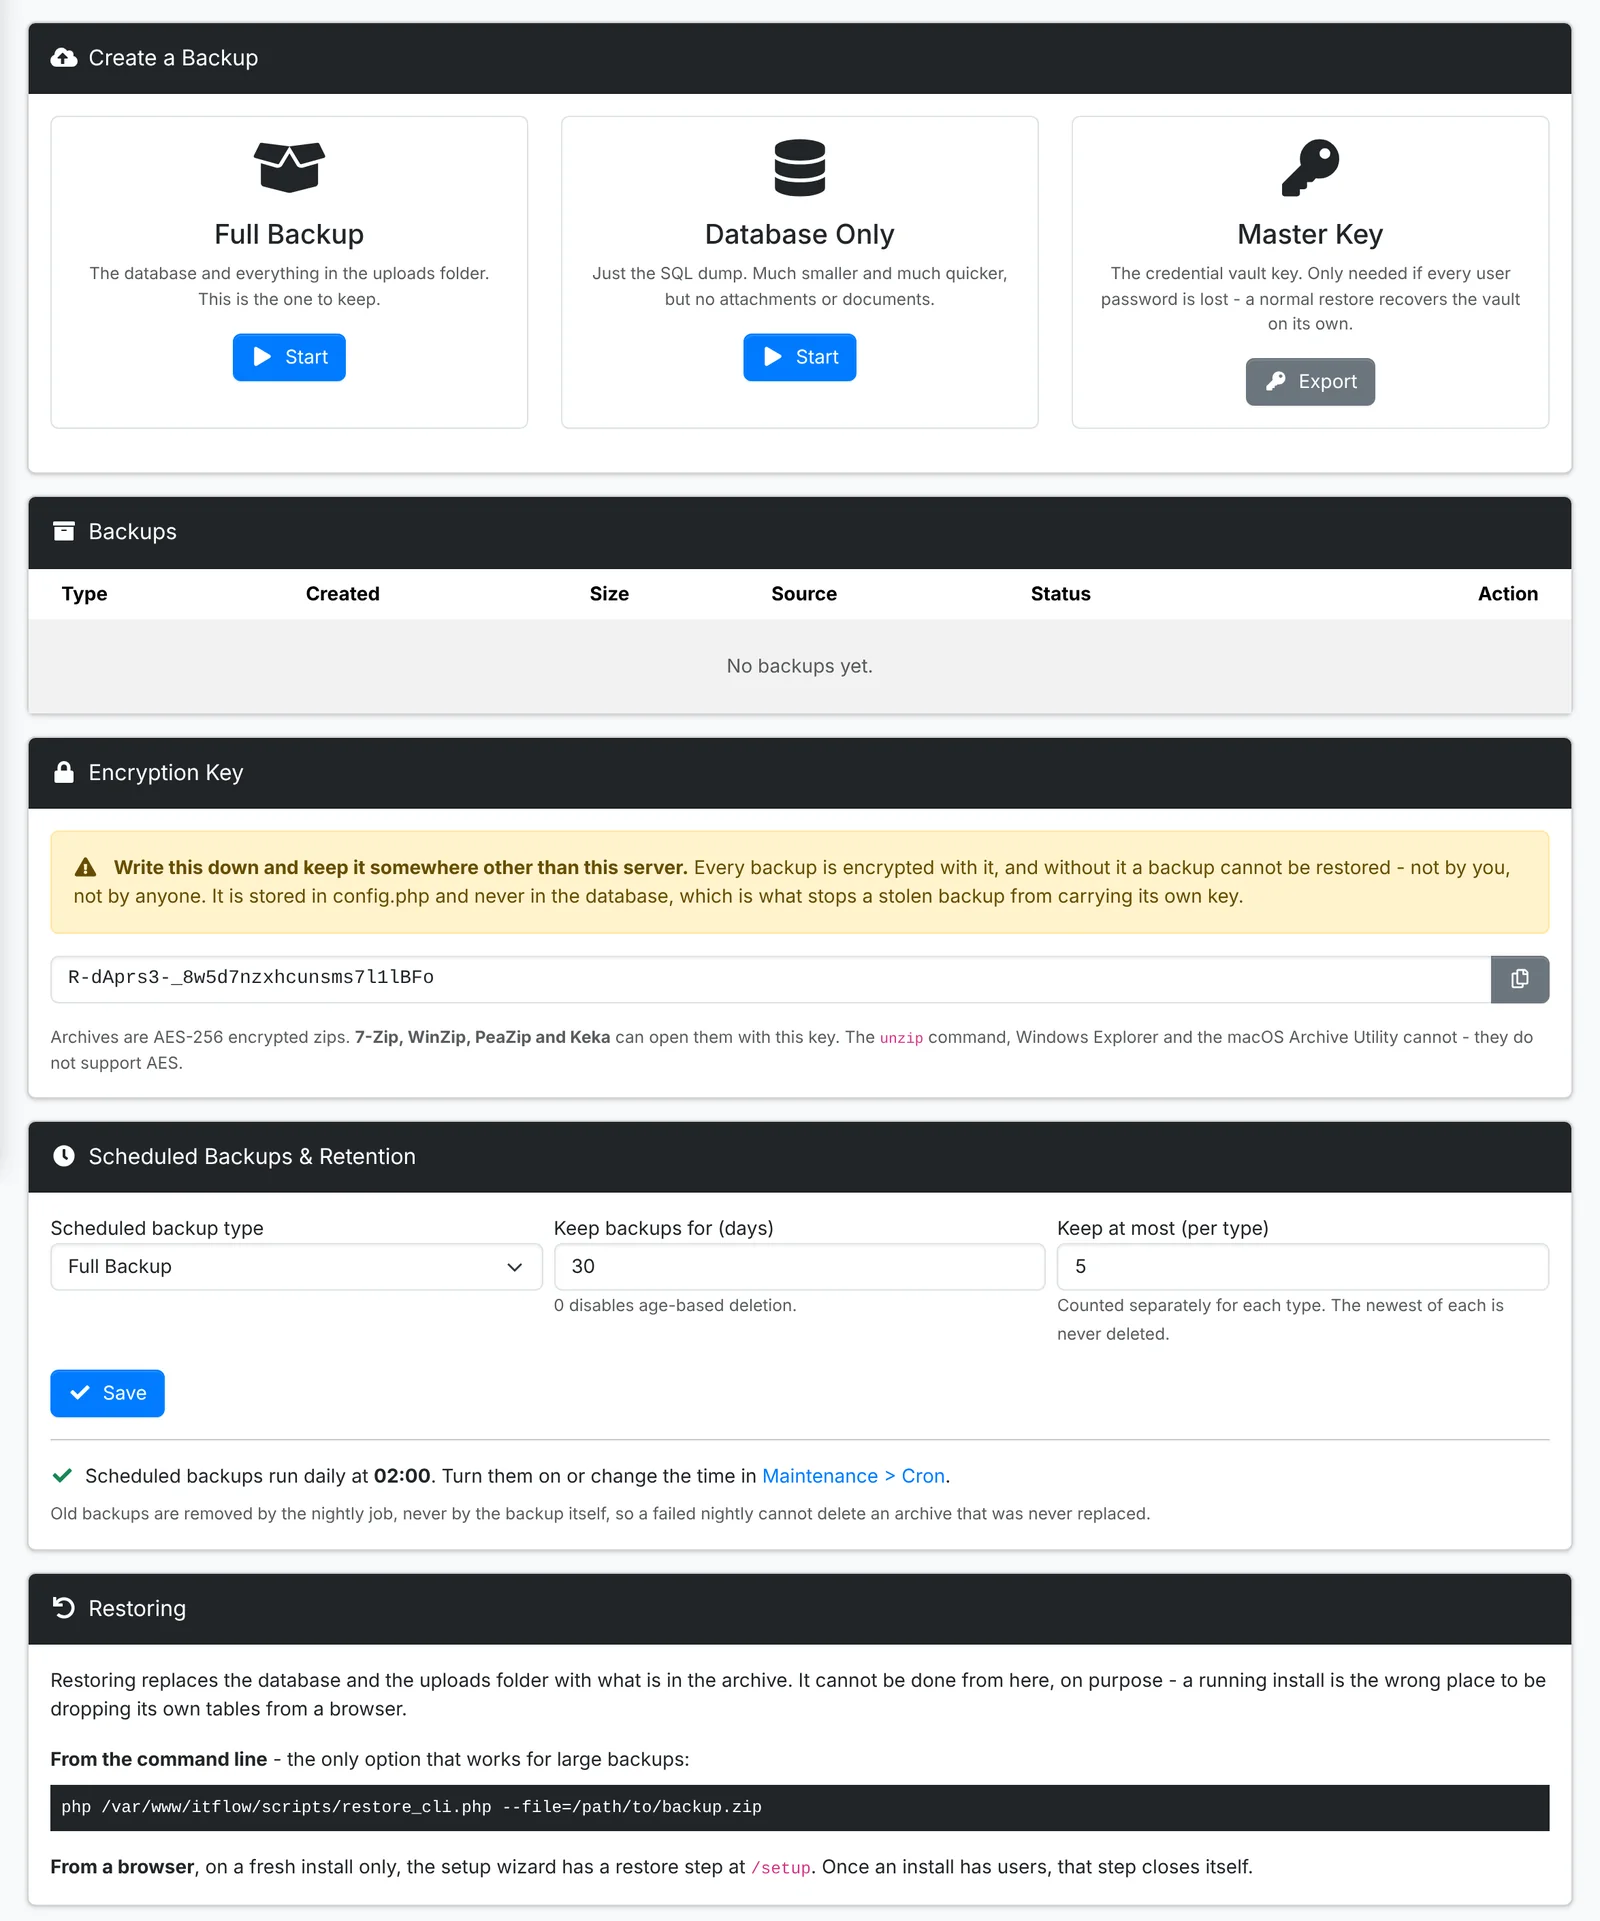
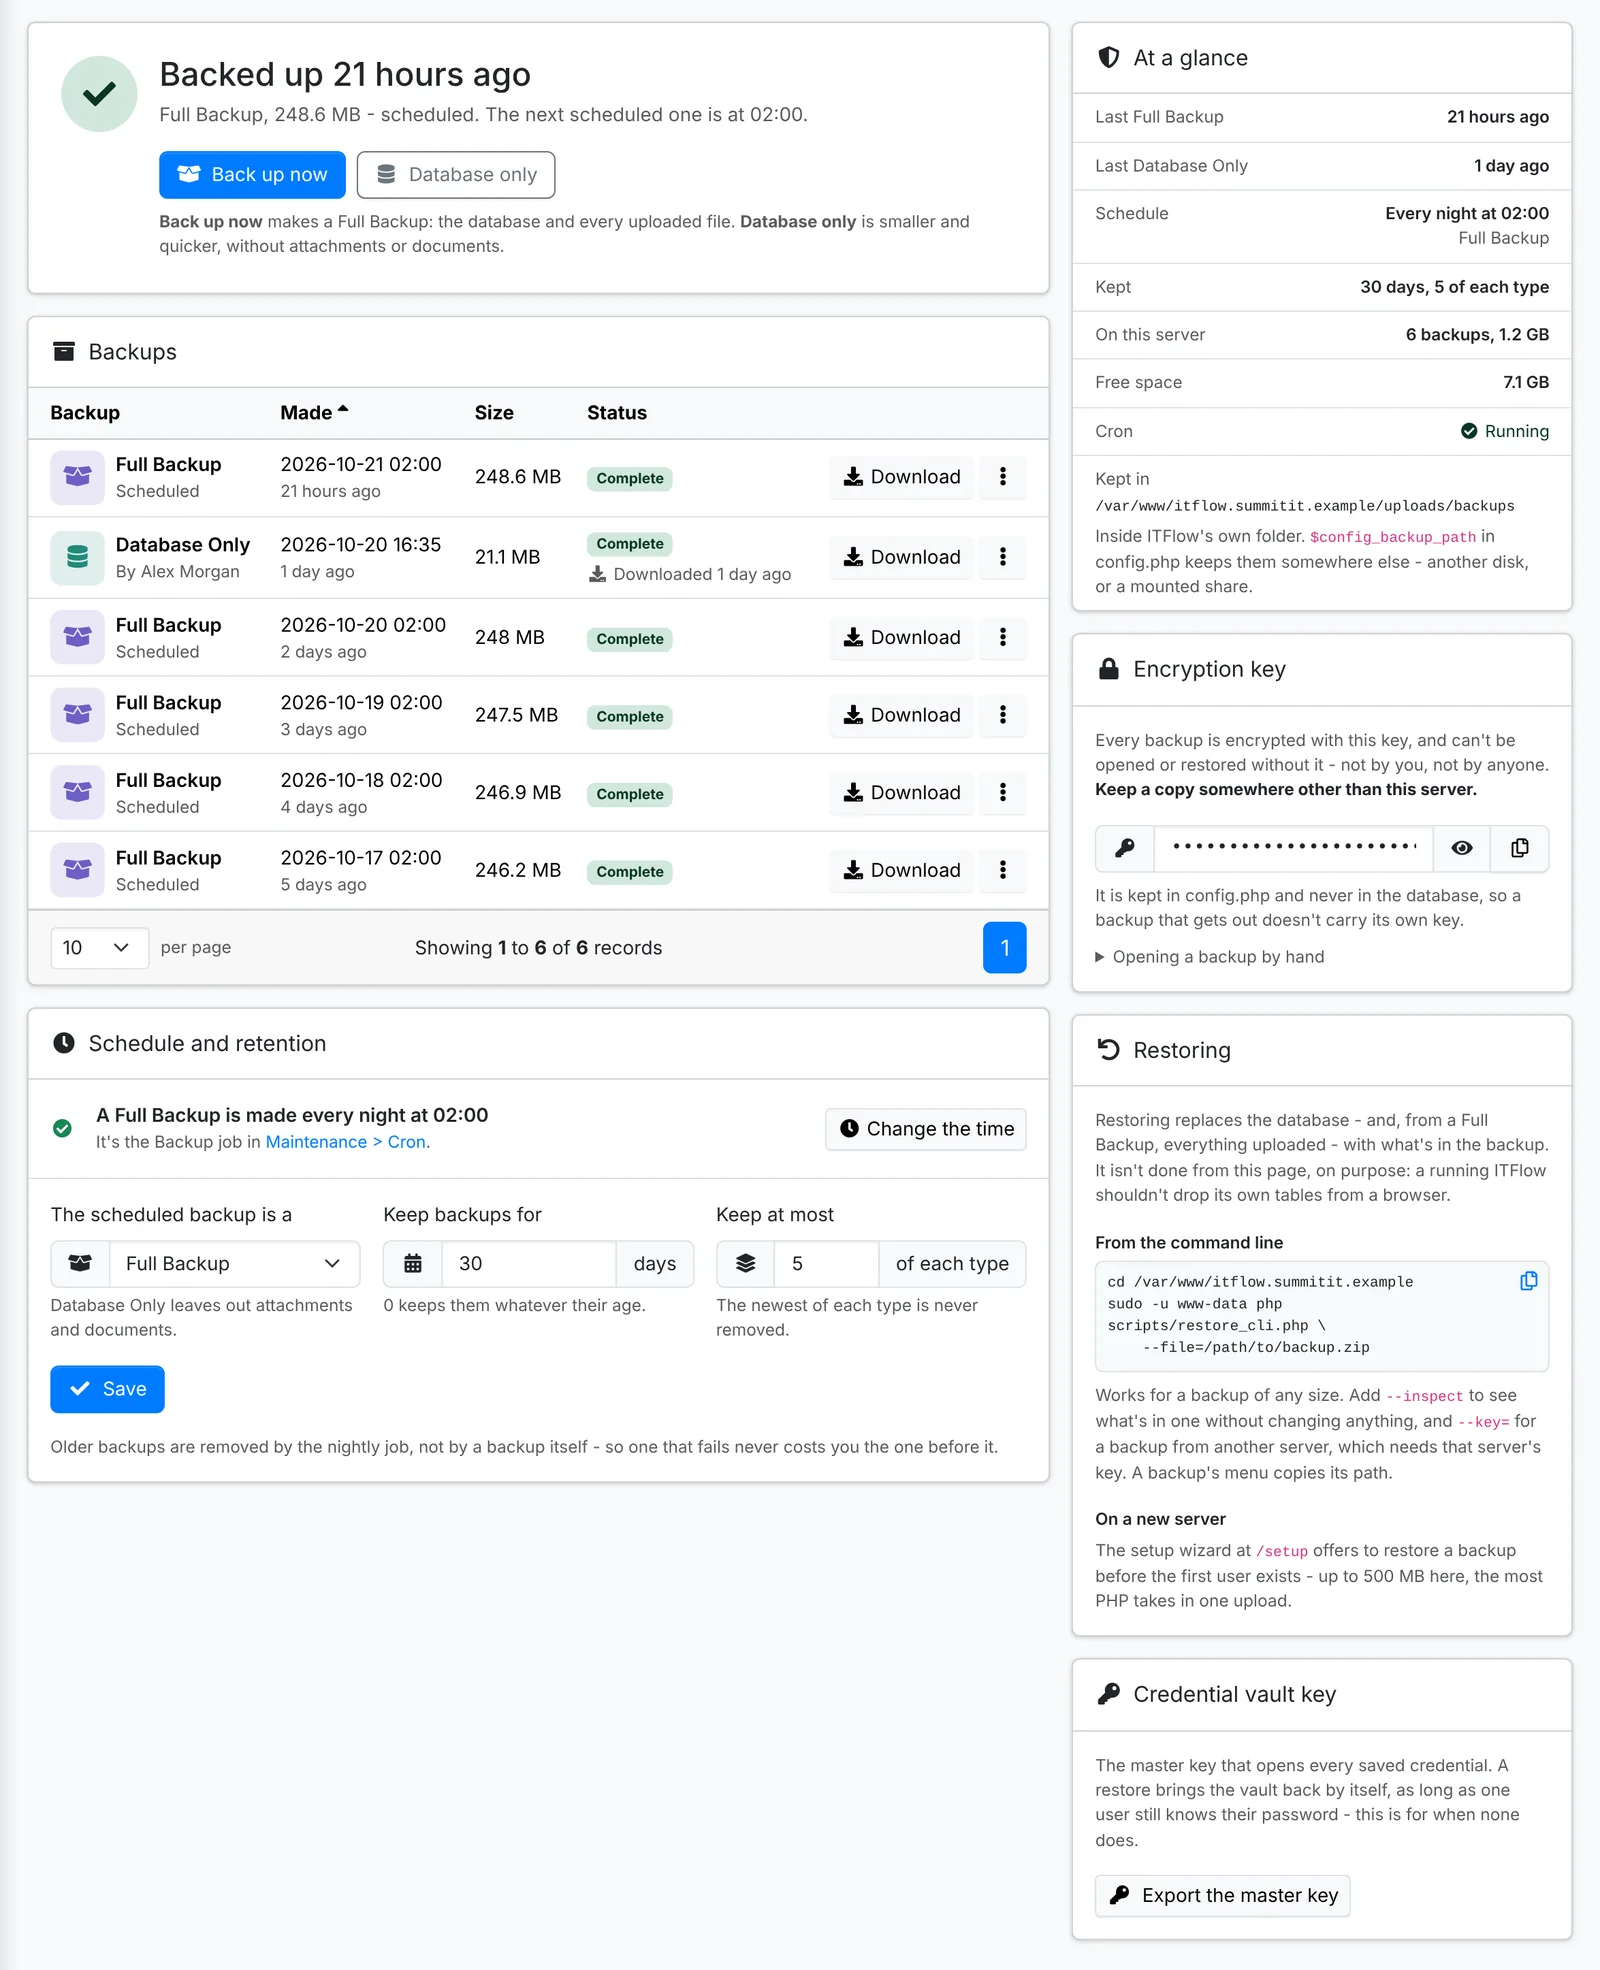
Docs: the rebuilt Backup page - the Maintenance page's Backup section is rewritten for it, saying what the top of the page tells you and the warnings it gives instead, Back up now and Database only and that the page keeps itself up to date while cron makes one, the backups list and each backup's men

diff --git a/content/admin/maintenance.md b/content/admin/maintenance.md
@@ -41,19 +41,28 @@ Each job's menu has **Run Now**, **Edit Schedule** (the time of day for a daily 
 
 ## Backup
 
-**Admin > Backup** makes a backup now, keeps a schedule, and holds the encryption key backups need.
+**Admin > Backup** says whether ITFlow is backed up, makes a backup when you want one, keeps the nightly schedule, and holds the encryption key backups need.
 
-![Backup](adm-backup.webp "Backup: make one now, the backups made, the encryption key and the schedule")
+![Backup](adm-backup.webp "Backup: when the last one was made, the backups kept, the schedule, and the encryption key")
 
-- **Full Backup** - the database and everything uploaded. This is the one to keep.
-- **Database Only** - just the database. Much smaller and quicker, but no files or documents.
-- **Master Key** - exports the key to the credential vault, for when every admin's password is lost.
+The top of the page says when the last backup was made, what kind it was, and when the next scheduled one is due. When something needs you, it says that instead: a backup is being made, the last one didn't finish and why, there hasn't been one for a week, none has been made yet, or one is waiting because cron isn't running.
 
-**Scheduled Backups & Retention** sets the type made each night, how many days to keep them, and the most to keep of each type.
+- **Back up now** makes a Full Backup - the database and everything uploaded. This is the one to keep.
+- **Database only** is just the database. Much smaller and quicker, but no files or documents.
 
-Every backup is an encrypted zip. The **Encryption Key** shown on the page opens it - write it down and keep it somewhere other than the server. Without it, a backup can't be restored, by anyone.
+Cron makes it within a minute, so cron needs to be running. The page keeps itself up to date while it does, the backup appears in the list when it's done, and you get a notification.
 
-To restore, use `scripts/restore_cli.php` on the server, as the page shows. On a brand new install, the setup wizard also has a restore step. [Moving to a new server](/install/moving) goes through both.
+**Backups** lists those kept, newest first: who made each one or that the schedule did, its size, and when it was last downloaded. A failed one says why. **Download** saves one. Each backup's menu copies its path on the server, which restoring from the command line asks for, and its SHA-256 checksum, to check a copy kept somewhere else. The same menu deletes a backup, or takes one still waiting to be made off the queue.
+
+**Schedule and retention** says whether a backup is made every night, and at what time. **Change the time** is beside it, and **Turn on** when the schedule is off - the same as the Backup job's menu in [Cron](#cron). Below that are the type made each night, how many days to keep backups, and the most to keep of each type. Old backups are removed by the nightly job, never by a backup itself, so one that fails never costs you the one before it.
+
+**At a glance** has the last Full Backup and Database Only, how many backups are on the server and the room they take, the space left there, whether cron is running, and the folder they're kept in - inside ITFlow's own folder unless `$config_backup_path` in [config.php](/install/config-php) puts them somewhere else.
+
+Every backup is an encrypted zip, and the **Encryption key** opens it. It's hidden until you click the eye, and the button beside it copies it. Keep a copy somewhere other than the server - without it, a backup can't be restored, by anyone.
+
+**Export the master key**, under **Credential vault key**, gives you the key to the credential vault, for when every user's password is lost - a restore brings the vault back by itself as long as one user still knows theirs. It asks for your password, shows the key once, and files an encrypted copy with the backups. Every agent is notified that it was exported.
+
+To restore, use `scripts/restore_cli.php` on the server - **Restoring** has the command to copy. On a brand new install, the setup wizard also has a restore step. [Moving to a new server](/install/moving) goes through both.
 
 ## Update
 

diff --git a/content/install/moving.md b/content/install/moving.md
@@ -8,9 +8,9 @@ To move ITFlow, install a fresh copy on the new server and restore a full backup
 
 ## 1. Take a full backup of the old server {#backup}
 
-1. In [Admin > Backup](/admin/maintenance#backup), click **Full Backup**. Cron makes it within a minute, so cron needs to be running.
-2. Download it from the list of backups.
-3. Copy the **Encryption Key** shown on the same page. You'll need it to restore.
+1. In [Admin > Backup](/admin/maintenance#backup), click **Back up now**. Cron makes a Full Backup within a minute, so cron needs to be running.
+2. Click its **Download** in the list of backups.
+3. Copy the **Encryption key** from the same page, with the button beside it. You'll need it to restore.
 
 Data entered on the old server after this backup won't come across. Move out of hours, and ask your team to stop using the old server once the backup is made.
 

diff --git a/content/install/config-php.md b/content/install/config-php.md
@@ -20,6 +20,7 @@ access: Server admins
 | `$installation_id` | A random id made at setup. It's sent with the install details if you choose to share them with the ITFlow project. |
 | `$config_enable_setup` | Setup adds `$config_enable_setup = 0;` when it finishes, which closes the setup wizard. |
 | `$config_backup_key` | The key backups are locked with. ITFlow adds it the first time it needs it. Copy it somewhere safe, away from the server. If you ever change it, keep the old key too, because older backups still need it. |
+| `$config_backup_path` | Optional. The folder backups are kept in, such as `/srv/itflow-backups` - another disk, or a mounted share. Without it, they're kept in `uploads/backups`, inside ITFlow's folder. The web server's user, and the user cron runs as, both need to be able to write to it. |
 
 ## Behind a reverse proxy or Cloudflare {#proxy}
 
